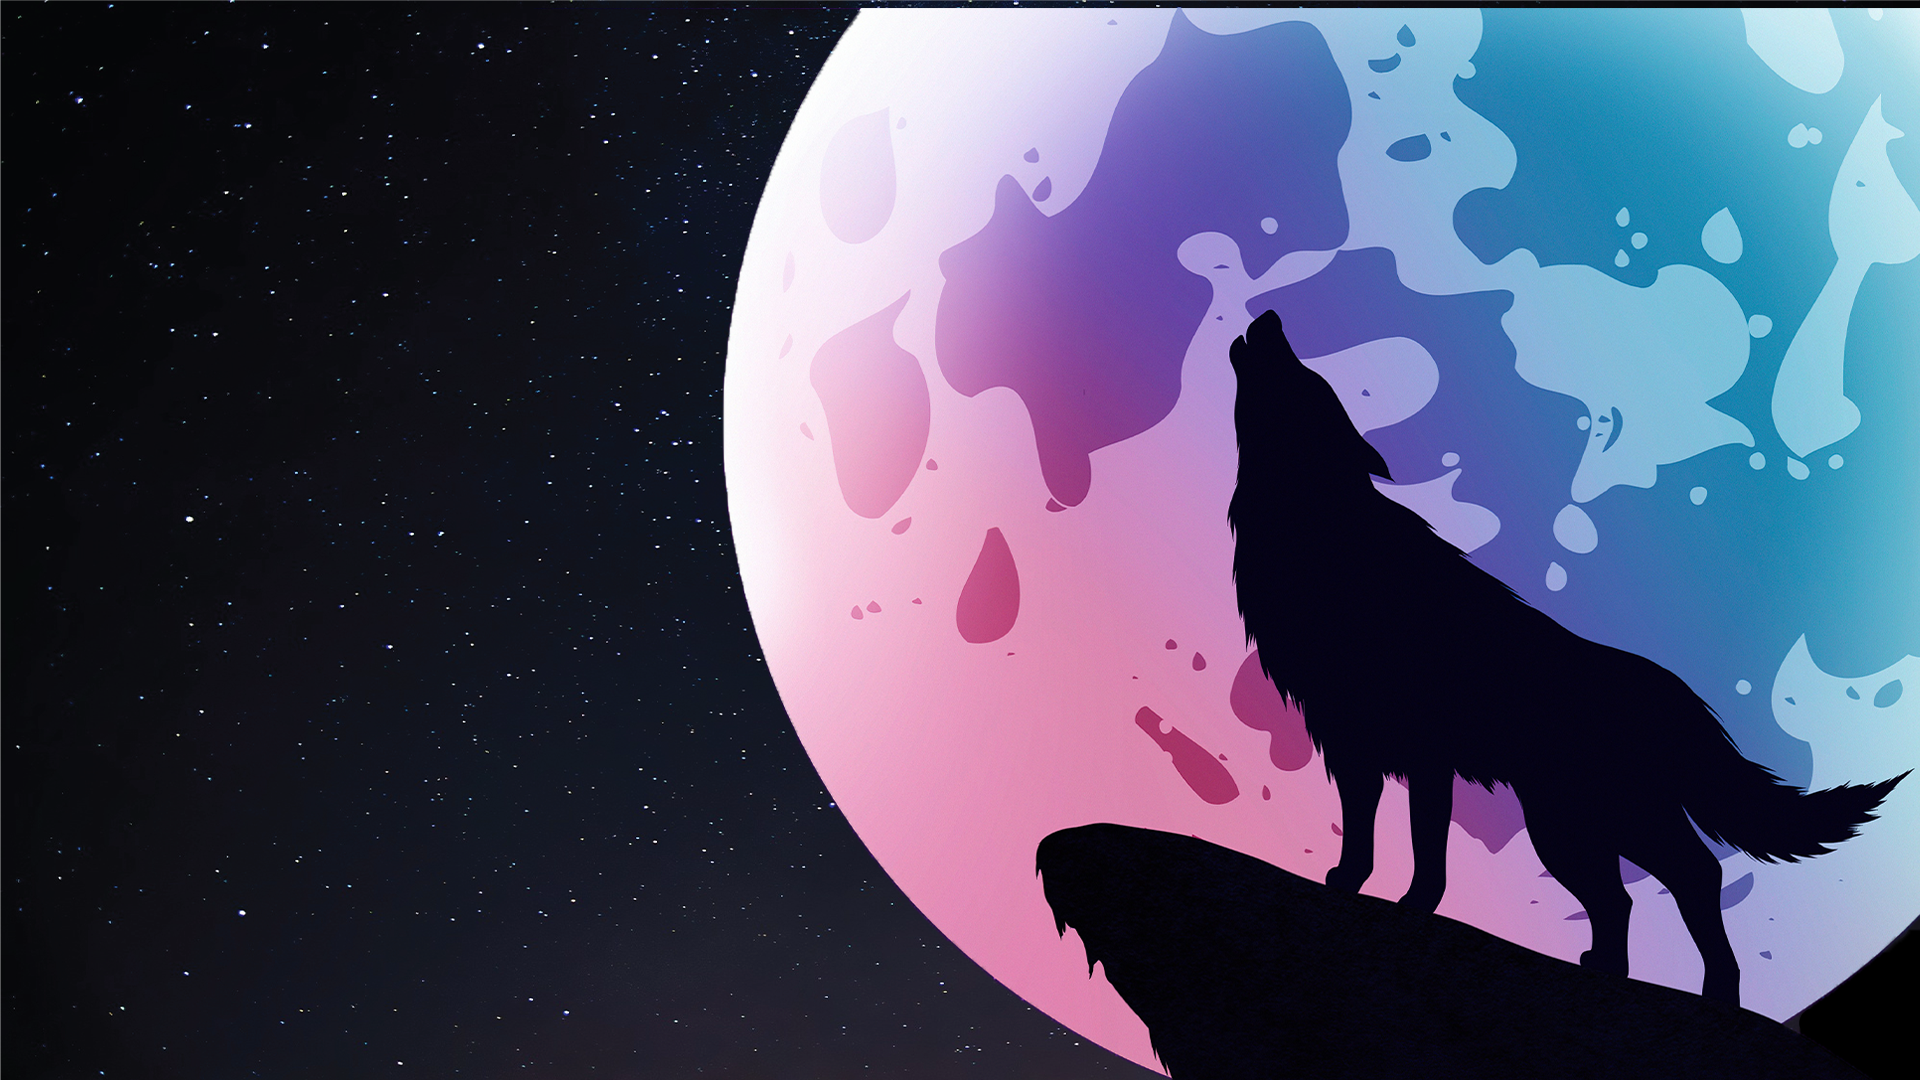
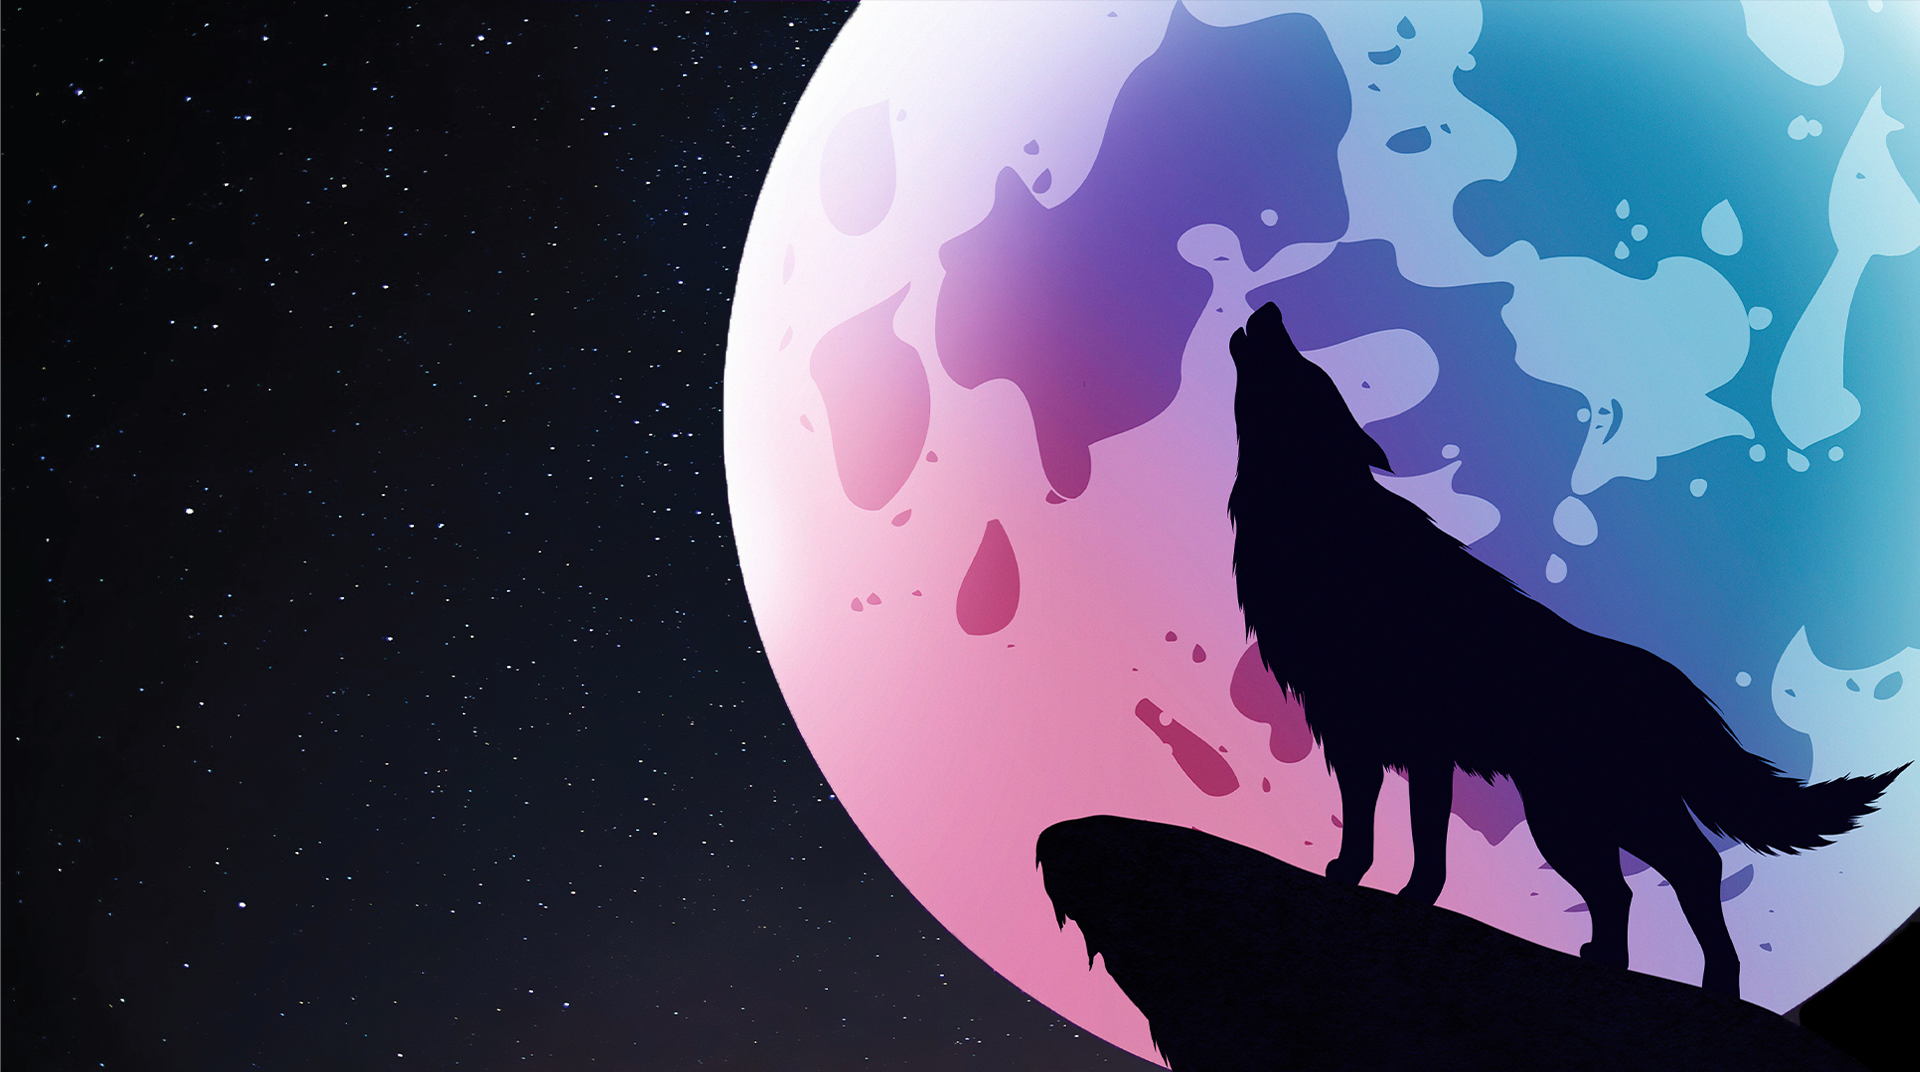
code updated

diff --git a/src/Pages/Home.jsx b/src/Pages/Home.jsx
@@ -1,6 +1,5 @@
 import React from 'react'
 import About from '../components/About';
-import Headings from '../components/Headings';
 import Portfolio from '../components/Portfolio';
 import Pricing from '../components/Pricing';
 import Services from '../components/Services';
@@ -14,7 +13,6 @@ function Home() {
 
             <Slider />
             <About />
-            <Headings />
             <Services />
             <Portfolio />
             <Pricing />

diff --git a/public/assets/css/style.css b/public/assets/css/style.css
@@ -10208,7 +10208,7 @@ header.in-box {
   }
 
   .slider .parallax-slider .swiper-slide .bg-img {
-    background-position: center center !important;
+    background-position: 80% 60% !important;
   }
 
   .slides-nav__index {
